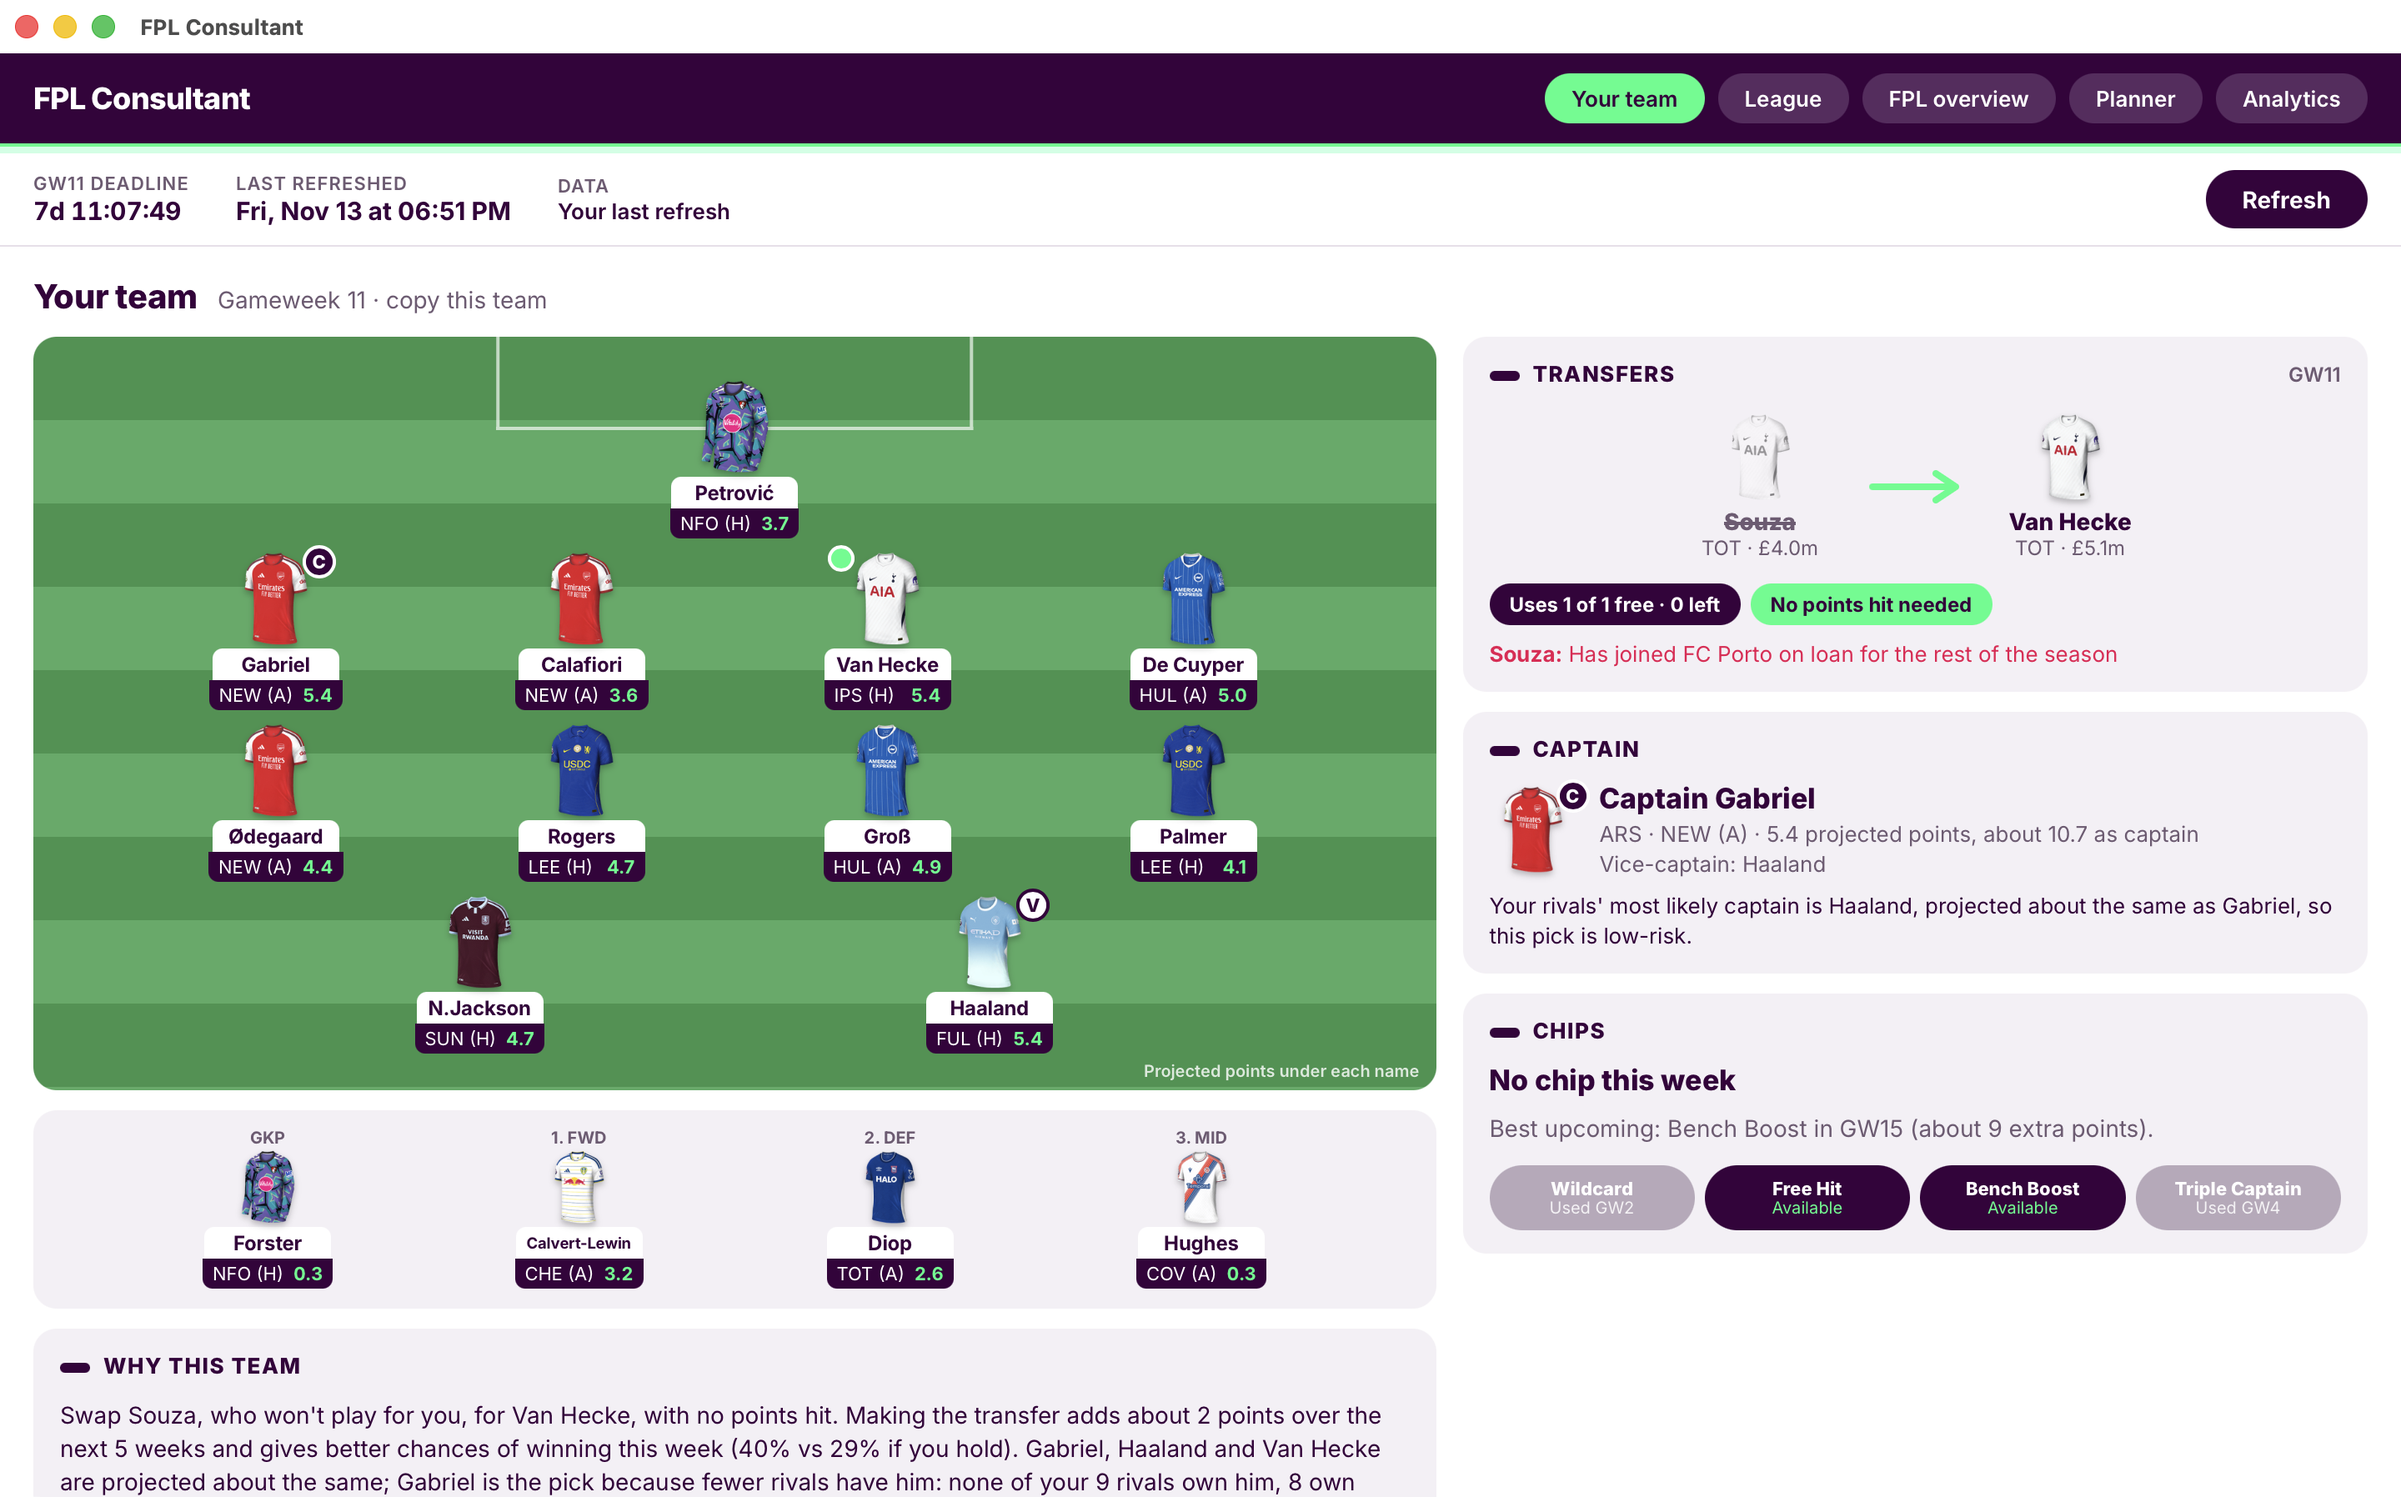
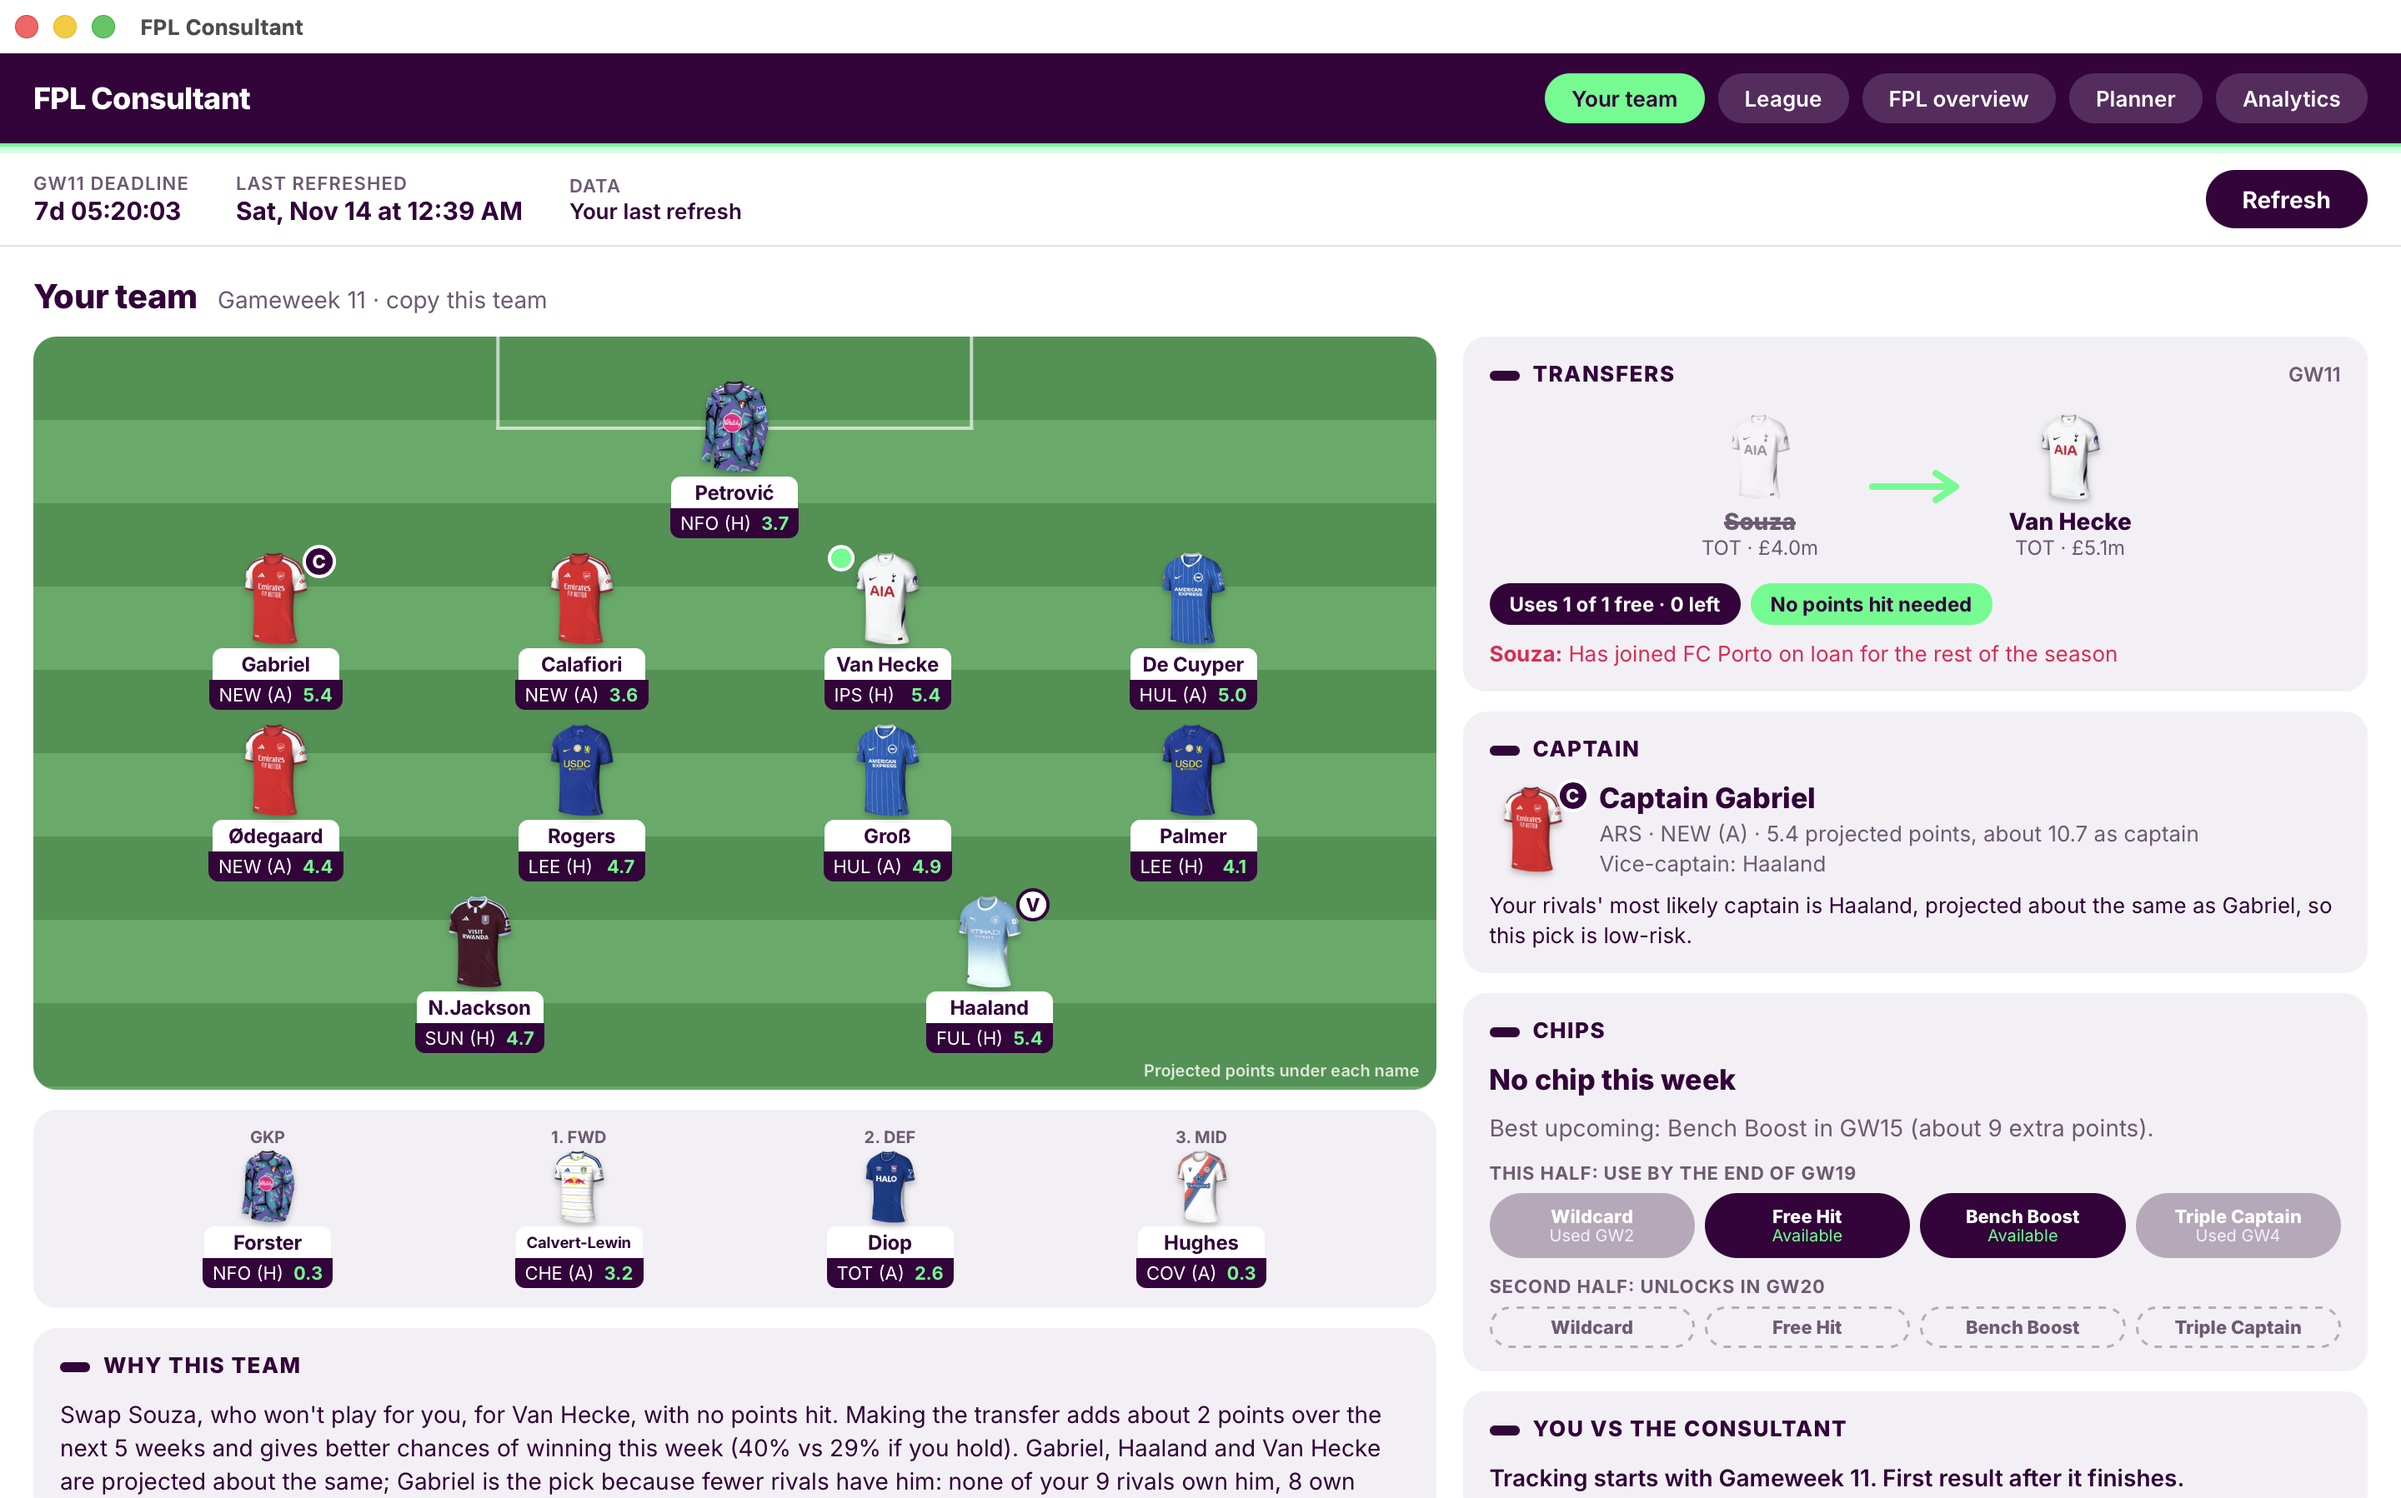
App: You vs the consultant card, both halves' chips; screenshots, README

diff --git a/app/src/pages/TeamPage.tsx b/app/src/pages/TeamPage.tsx
@@ -2,7 +2,7 @@ import type { Latest } from "../data";
 import { Card, Pill } from "../components/Card";
 import { Bench, Pitch } from "../components/Pitch";
 import { Shirt } from "../components/Shirt";
-import { readDecision, type Decision, type PlayerView } from "../model/team";
+import { readDecision, readTracker, type Decision, type PlayerView } from "../model/team";
 
 // Every panel below renders `decision` (fpl/decision.py) as published --
 // none of them works out a recommendation of its own.
@@ -111,6 +111,7 @@ function ChipsCard({ d }: { d: Decision }) {
             ? `Best upcoming: ${chip.upcoming.label} in GW${chip.upcoming.gameweek} (about ${chip.upcoming.gain.toFixed(0)} extra points).`
             : "None of your chips is worth playing in the next few weeks."}
       </p>
+      {chip.useBy && <div className="chip-half">This half: use by the end of GW{chip.useBy}</div>}
       <div className="chip-row">
         {chip.statuses.map((c) => (
           <div key={c.chip} className={`chip ${c.available ? "available" : "used"}`} title={c.note}>
@@ -119,11 +120,50 @@ function ChipsCard({ d }: { d: Decision }) {
           </div>
         ))}
       </div>
+      {chip.nextHalf.length > 0 && (
+        <>
+          <div className="chip-half">Second half: unlocks in GW{(chip.useBy ?? 19) + 1}</div>
+          <div className="chip-row">
+            {chip.nextHalf.map((c) => (
+              <div key={c.chip} className="chip locked" title={c.note}>
+                <span className="chip-name">{c.label}</span>
+              </div>
+            ))}
+          </div>
+        </>
+      )}
       {chip.urgent.length > 0 && chip.useBy && (
         <p className="note warn">
           Use {chip.urgent.join(" and ")} by GW{chip.useBy} or lose {chip.urgent.length > 1 ? "them" : "it"}.
         </p>
       )}
+    </Card>
+  );
+}
+
+// Rendered twice: at the bottom of the right column on laptop, and after
+// "Why this team" on phone (CSS shows one or the other).
+function TrackerCard({ data, place }: { data: Latest; place: "side" | "bottom" }) {
+  const t = readTracker(data);
+  let lines: string[];
+  if (!t.started || !t.lastWeek || !t.totals) {
+    lines = [`Tracking starts with Gameweek ${t.firstGameweek}. First result after it finishes.`];
+  } else {
+    const diff = t.totals.difference;
+    lines = [
+      `Last week: you ${t.lastWeek.you}, the consultant's team ${t.lastWeek.consultant}`,
+      diff === 0
+        ? `Since GW${t.firstGameweek}: level`
+        : `Since GW${t.firstGameweek}: ${diff > 0 ? "consultant" : "you"} ahead by ${Math.abs(diff)}`,
+    ];
+  }
+  return (
+    <Card title="You vs the consultant" className={`tracker-card tracker-${place}`}>
+      {lines.map((l) => (
+        <p key={l} className="tracker-line">
+          {l}
+        </p>
+      ))}
     </Card>
   );
 }
@@ -156,10 +196,12 @@ export function TeamPage({ data }: { data: Latest }) {
         <TransfersCard d={d} />
         {d.captain && <CaptainCard d={d} />}
         <ChipsCard d={d} />
+        <TrackerCard data={data} place="side" />
       </aside>
       <Card title="Why this team" className="why-card">
         <p className="why">{d.why.join(" ")}</p>
       </Card>
+      <TrackerCard data={data} place="bottom" />
     </div>
   );
 }

diff --git a/app/src/theme/theme.css b/app/src/theme/theme.css
@@ -163,6 +163,8 @@ h1, h2 { margin: 0; letter-spacing: -0.01em; }
 .team-bench { grid-area: bench; }
 .team-side { grid-area: side; display: flex; flex-direction: column; gap: 12px; }
 .why-card { grid-area: why; }
+.tracker-bottom { display: none; }
+.tracker-line { font-size: 14px; font-weight: 600; margin: 4px 0 0 !important; }
 .team-bench .bench { margin-top: 0; }
 .why { font-size: 14px; }
 
@@ -185,6 +187,9 @@ h1, h2 { margin: 0; letter-spacing: -0.01em; }
 }
 .chip.available { background: var(--purple); color: var(--white); }
 .chip.used { background: var(--grey); color: var(--white); }
+.chip.locked { background: transparent; color: var(--text-muted); border: 1.5px dashed var(--grey); padding: 5px 4px; }
+.chip-half { margin-top: 10px; font-size: 11px; font-weight: 700; color: var(--text-muted); text-transform: uppercase; letter-spacing: 0.04em; }
+.chip-half + .chip-row { margin-top: 5px; }
 .chip-name { font-size: 11px; font-weight: 800; }
 .chip-note { font-size: 10px; opacity: 0.85; }
 .chip.available .chip-note { color: var(--neon); opacity: 1; }
@@ -201,14 +206,19 @@ h1, h2 { margin: 0; letter-spacing: -0.01em; }
   .rule { margin: 0 8px; }
   .statusbar { gap: 14px; padding: 8px 14px; }
   .hide-phone { display: none; }
-  .value { font-size: 14px; }
+  .value { font-size: 13px; }
+  .statusbar .label { white-space: nowrap; font-size: 10px; }
+  .statusbar { gap: 10px; }
   .refresh { padding: 8px 14px; }
   .banner { margin: 8px 10px 0; }
   .content { padding: 12px 10px 16px; }
 
   .team-page {
     grid-template-columns: minmax(0, 1fr); grid-template-rows: none;
-    grid-template-areas: "title" "pitch" "bench" "side" "why";
+    grid-template-areas: "title" "pitch" "bench" "side" "why" "track";
+  }
+  .tracker-side { display: none; }
+  .tracker-bottom { display: block; grid-area: track;
   }
   .page-title h1 { font-size: 19px; }
   .pitch { min-height: 420px; padding: 30px 0 22px; }

diff --git a/app/src/model/team.ts b/app/src/model/team.ts
@@ -55,6 +55,7 @@ export interface Decision {
     urgent: string[];
     useBy: number | null;
     statuses: ChipStatus[];
+    nextHalf: ChipStatus[]; // second set, unlocks after GW19
   };
   horizonGain: number | null;
   horizonWeeks: number;
@@ -131,9 +132,34 @@ export function readDecision(data: Latest): Decision | null {
       urgent: d.chip?.urgent ?? [],
       useBy: d.chip?.use_by_gameweek ?? null,
       statuses: d.chip?.statuses ?? [],
+      nextHalf: d.chip?.next_half ?? [],
     },
     horizonGain: num(d.headline?.horizon_gain),
     horizonWeeks: d.headline?.horizon_weeks ?? 5,
     why: d.why ?? [],
+  };
+}
+
+// ---------------------------------------------------------------------------
+// "You vs the consultant" (fpl/consultant.py, latest.json consultant_vs_you)
+// ---------------------------------------------------------------------------
+
+export interface Tracker {
+  started: boolean;
+  firstGameweek: number;
+  lastWeek: { gameweek: number; consultant: number; you: number } | null;
+  totals: { consultant: number; you: number; difference: number } | null;
+}
+
+export function readTracker(data: Latest): Tracker {
+  const t: Raw | undefined = data.consultant_vs_you;
+  if (!t?.available || !t.started) {
+    return { started: false, firstGameweek: t?.first_gameweek ?? 11, lastWeek: null, totals: null };
+  }
+  return {
+    started: true,
+    firstGameweek: t.first_gameweek,
+    lastWeek: { gameweek: t.last_week.gameweek, consultant: t.last_week.consultant_points, you: t.last_week.my_points },
+    totals: { consultant: t.totals.consultant, you: t.totals.you, difference: t.totals.difference },
   };
 }

diff --git a/README.md b/README.md
@@ -52,11 +52,11 @@ whatever downstream panels it can.
 | 4 | `xp` | Expected points per player per gameweek over the lookahead horizon, plus a frozen pre-deadline snapshot per gameweek for later scoring. |
 | 5 | `league` | Your mini-league's ownership/EO, ownership swings, chips-remaining grid, strategy mode (chasing/protecting/balanced), and ("manual mode") converts a hand-transcribed `data/manual/league_snapshot.json` into the same tables if `league_id` isn't usable. |
 | 6 | `rival_transfers` | A model of when each rival is likely to transfer, to anticipate incoming threats. |
-| 7 | `scoring` | Post-gameweek feedback: once a gameweek's deadline has passed and its scores lock, compares the frozen pre-deadline xP snapshot against what actually happened and appends to `data/accuracy/accuracy_log.csv`. Safe to run every 3 hours -- it's a no-op except right after a gameweek finishes. |
+| 7 | `scoring` | Post-gameweek feedback: once a gameweek's deadline has passed and its scores lock, compares the frozen pre-deadline xP snapshot against what actually happened and appends to `data/accuracy/accuracy_log.csv`. Safe to run every 3 hours -- it's a no-op except right after a gameweek finishes. Also scores "You vs the consultant" (`fpl/consultant.py`): each gameweek's recommendation is frozen at the deadline in `data/recommendations/gw{N}.json` (written by `publish` before every deadline), then scored with real points under FPL's rules (captain/vice, automatic subs, chips, hits) next to your actual result, both read from the FPL API. Results go to `data/accuracy/consultant_vs_you.csv`. |
 | 8 | `optimise` | The actual recommendation: best XI, transfer plan (respecting free transfers and the hit-justification policy), captain/vice-captain, chip plan. |
 | 9 | `simulation` | Monte Carlo win-probability for this gameweek and the rest of the season, comparing the optimiser's recommended plan (exactly as `optimise` recommends it) against rolling the transfer. |
 | 10 | `publish` | Writes `site/data/latest.json`, the one file the static site fetches. Every panel is `null` with a short `reason` if its config/table isn't available yet. Builds the one `decision` for the upcoming gameweek (`fpl/decision.py`): transfer or roll, hits and free transfers, XI, bench, captain, chip and the "why" text. Rule for transfer vs hold: in "chasing" mode follow the better chance of winning this week; otherwise follow the higher projected points. `verdict`, `xi`, `recommended_team` and `transfer_plan` are built from the same choice. |
-| 11 | `check_consistency` | Fails the run (before the site deploys) if the recommendation contradicts itself, e.g. an incoming player missing from the team, the captain differing between panels, or hit/free-transfer numbers that don't add up. `publish` also runs it before writing, so a contradictory `latest.json` is never written. |
+| 11 | `check_consistency` | Fails the run (before the site deploys) if the recommendation contradicts itself, e.g. an incoming player missing from the team, the captain differing between panels (including the site's captain board, captaincy-risk and simulation panels), or hit/free-transfer numbers that don't add up. `publish` also runs it before writing, so a contradictory `latest.json` is never written. |
 
 Two more modules are **not** part of the scheduled pipeline (one-off model
 validation, not something that needs to re-run every 3 hours):
@@ -92,6 +92,13 @@ uv run python -m fpl.check_transfer_policy
 # --self-test breaks each rule once on a copy and checks it's caught:
 uv run python -m fpl.check_consistency
 uv run python -m fpl.check_consistency --self-test
+
+# Check the consultant scorer reproduces FPL's official points (your GW10,
+# every league manager's GW1-10, plus rule cases):
+uv run python -m fpl.check_consultant_scoring
+
+# Check the optimiser uses FPL's formation rules, not a fixed 4-4-2:
+uv run python -m fpl.check_formation
 
 # Serve the site locally to view the result in a browser:
 cd site && python3 -m http.server 8000
